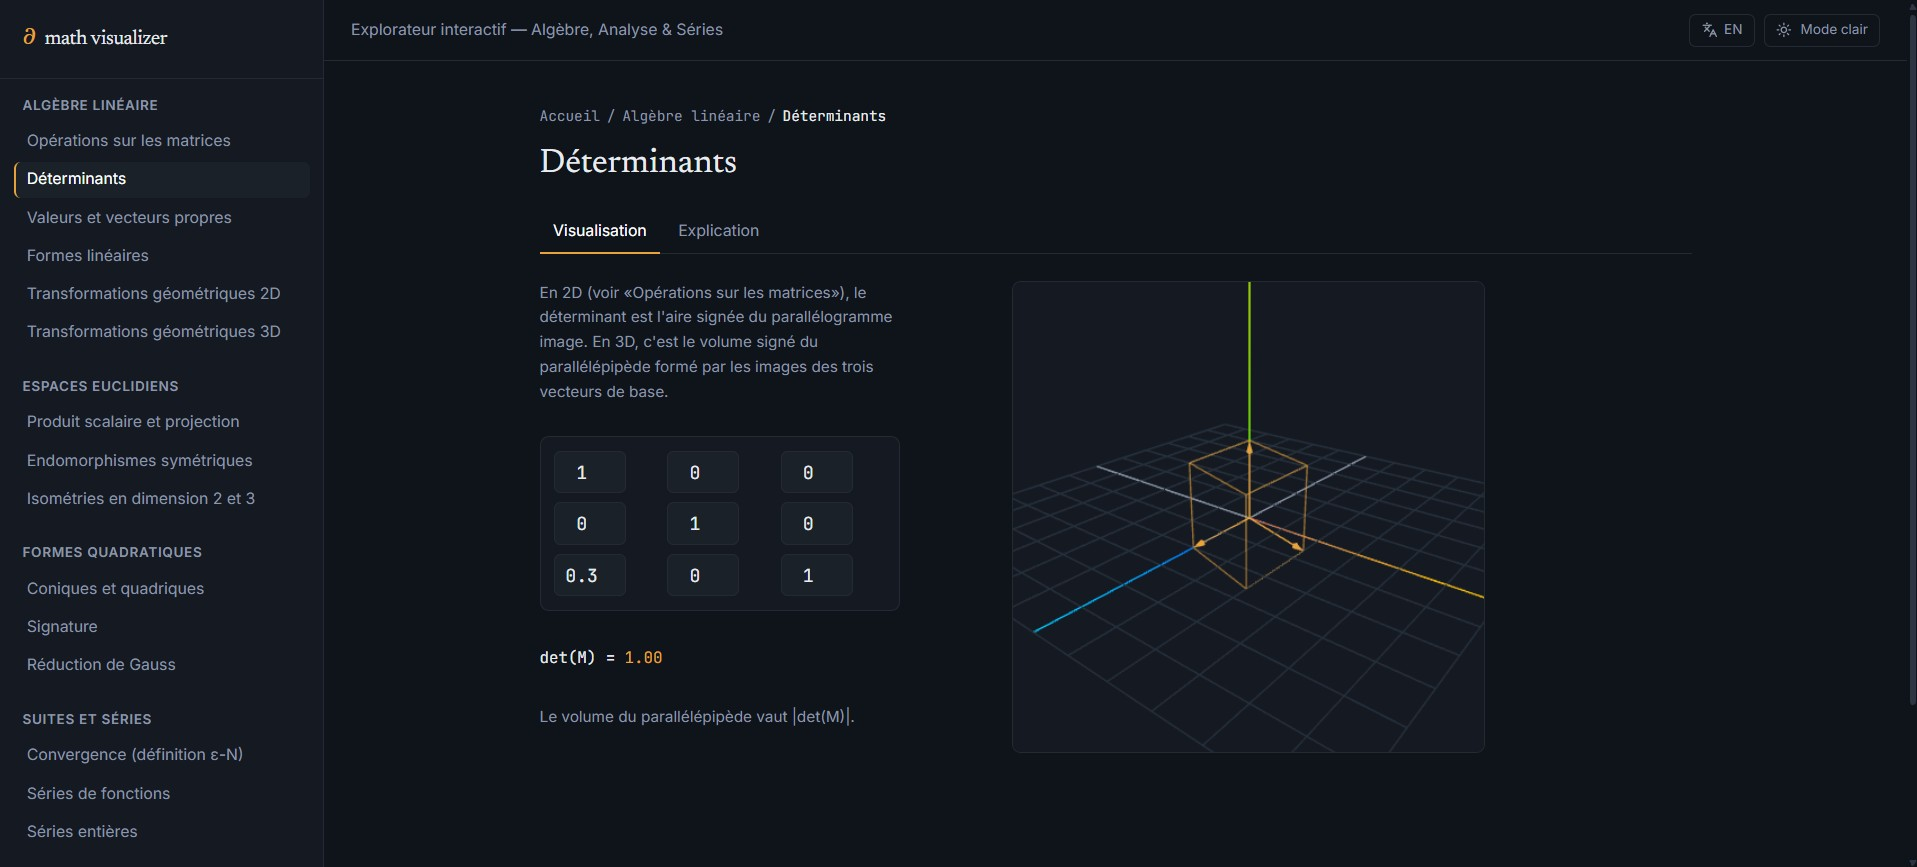
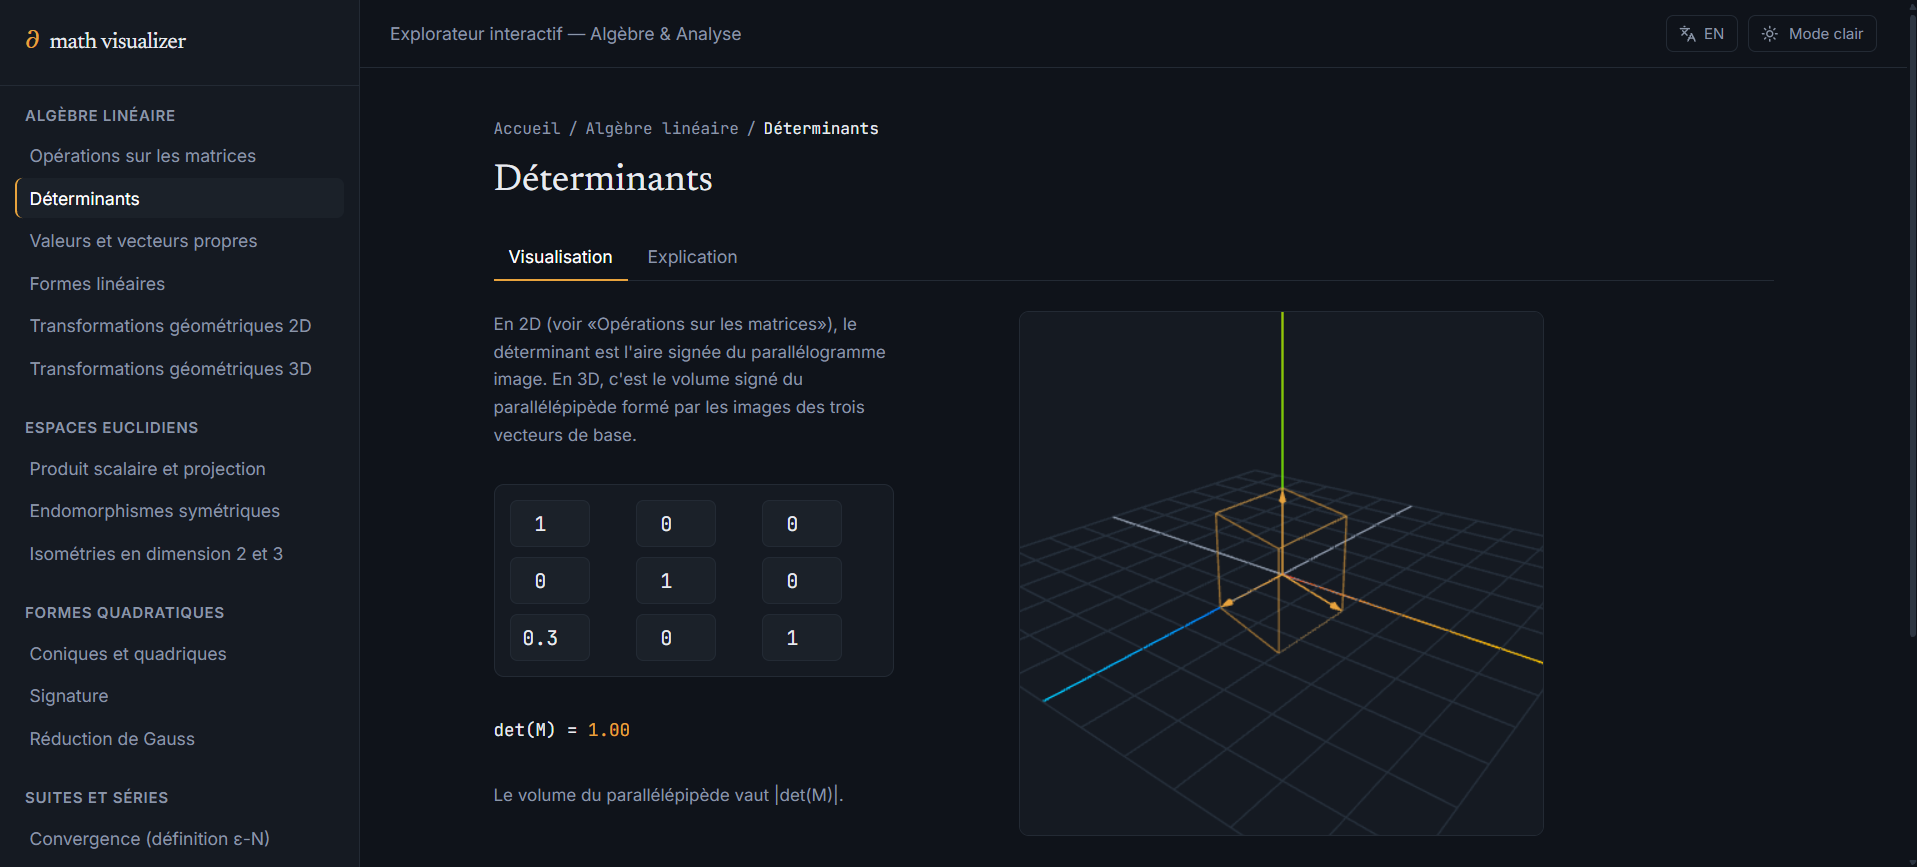
Add tests, change screenshot images

diff --git a/tests/matrix.test.js b/tests/matrix.test.js
@@ -1,0 +1,30 @@
+import { describe, it, expect } from 'vitest'
+import { det2, applyMatrix, matMul2 } from '../src/lib/matrix'
+
+describe('det2', () => {
+    it('is 1 for the identity matrix', () => {
+        expect(det2([[1, 0], [0, 1]])).toBe(1)
+    })
+    it('computes ad - bc', () => {
+        expect(det2([[2, 0], [0, 3]])).toBe(6)
+    })
+    it('is negative for an orientation-reversing matrix', () => {
+        expect(det2([[0, 1], [1, 0]])).toBe(-1)
+    })
+})
+
+describe('applyMatrix', () => {
+    it('leaves vectors unchanged under the identity', () => {
+        expect(applyMatrix([[1, 0], [0, 1]], 3, 4)).toEqual({ x: 3, y: 4 })
+    })
+    it('scales each axis independently', () => {
+        expect(applyMatrix([[2, 0], [0, 3]], 1, 1)).toEqual({ x: 2, y: 3 })
+    })
+})
+
+describe('matMul2', () => {
+    it('two 90° rotations compose into a 180° rotation', () => {
+        const rot90 = [[0, -1], [1, 0]]
+        expect(matMul2(rot90, rot90)).toEqual([[-1, 0], [0, -1]])
+    })
+})

diff --git a/tests/isometry.test.js b/tests/isometry.test.js
@@ -1,0 +1,25 @@
+import { describe, it, expect } from 'vitest'
+import { classifyIsometry2, classifyIsometry3 } from '../src/lib/isometry'
+
+describe('classifyIsometry2', () => {
+    it('identifies a 90° rotation', () => {
+        const result = classifyIsometry2([[0, -1], [1, 0]])
+        expect(result.type).toBe('rotation')
+        expect(result.angleDeg).toBeCloseTo(90)
+    })
+    it('identifies a reflection', () => {
+        const result = classifyIsometry2([[1, 0], [0, -1]])
+        expect(result.type).toBe('reflection')
+    })
+})
+
+describe('classifyIsometry3', () => {
+    it('identifies central symmetry (-Id)', () => {
+        const result = classifyIsometry3([[-1, 0, 0], [0, -1, 0], [0, 0, -1]])
+        expect(result.subtype).toBe('inversion')
+    })
+    it('identifies a plane reflection', () => {
+        const result = classifyIsometry3([[1, 0, 0], [0, 1, 0], [0, 0, -1]])
+        expect(result.subtype).toBe('reflection')
+    })
+})

diff --git a/tests/quadraticForm.test.js b/tests/quadraticForm.test.js
@@ -1,0 +1,24 @@
+import { describe, it, expect } from 'vitest'
+import { classifySignature } from '../src/lib/quadraticForm'
+
+describe('classifySignature', () => {
+    it('classifies a positive definite form', () => {
+        const result = classifySignature(1, 0, 1)
+        expect(result.positives).toBe(2)
+        expect(result.negatives).toBe(0)
+    })
+    it('classifies a negative definite form', () => {
+        const result = classifySignature(-1, 0, -1)
+        expect(result.positives).toBe(0)
+        expect(result.negatives).toBe(2)
+    })
+    it('classifies an indefinite form', () => {
+        const result = classifySignature(1, 0, -1)
+        expect(result.positives).toBe(1)
+        expect(result.negatives).toBe(1)
+    })
+    it('translates the label when lang is en', () => {
+        const result = classifySignature(1, 0, 1, 'en')
+        expect(result.label).toBe('positive definite')
+    })
+})

diff --git a/src/lib/matrix.js b/src/lib/matrix.js
@@ -1,7 +1,7 @@
 export function det2(m) {
   return m[0][0] * m[1][1] - m[0][1] * m[1][0]
 }
-  
+
 export function applyMatrix(m, x, y) {
   return {
     x: m[0][0] * x + m[0][1] * y,
@@ -10,9 +10,16 @@ export function applyMatrix(m, x, y) {
 }
 
 export function matMul2(A, B) {
-  return [
-    [A[0][0] * B[0][0] + A[0][1] * B[1][0], A[0][0] * B[0][1] + A[0][1] * B[1][1]],
-    [A[1][0] * B[0][0] + A[1][1] * B[1][0], A[1][0] * B[0][1] + A[1][1] * B[1][1]],
+  const result = [
+    [
+      A[0][0] * B[0][0] + A[0][1] * B[1][0],
+      A[0][0] * B[0][1] + A[0][1] * B[1][1]
+    ],
+    [
+      A[1][0] * B[0][0] + A[1][1] * B[1][0],
+      A[1][0] * B[0][1] + A[1][1] * B[1][1]
+    ],
   ]
+  return result.map(row => row.map(value => value === 0 ? 0 : value))
 }
 

diff --git a/tests/customFunction.test.js b/tests/customFunction.test.js
@@ -1,0 +1,20 @@
+import { describe, it, expect } from 'vitest'
+import { compileFunction } from '../src/lib/customFunction'
+
+describe('compileFunction', () => {
+    it('compiles and evaluates a valid expression', () => {
+        const { fn, error } = compileFunction('x^2 + 1', ['x'])
+        expect(error).toBeNull()
+        expect(fn(2)).toBeCloseTo(5)
+    })
+    it('reports an error for malformed input', () => {
+        const { fn, error } = compileFunction('x +', ['x'])
+        expect(fn).toBeNull()
+        expect(error).toBeTruthy()
+    })
+    it('reports an error for an undeclared variable', () => {
+        const { fn, error } = compileFunction('y + 1', ['x'])
+        expect(fn).toBeNull()
+        expect(error).toBeTruthy()
+    })
+})

diff --git a/tests/matrix3.test.js b/tests/matrix3.test.js
@@ -1,0 +1,19 @@
+import { describe, it, expect } from 'vitest'
+import { det3, rotationAxis3 } from '../src/lib/matrix3'
+
+describe('det3', () => {
+    it('is 1 for the identity matrix', () => {
+        expect(det3([[1, 0, 0], [0, 1, 0], [0, 0, 1]])).toBe(1)
+    })
+    it('matches cofactor expansion for a known matrix', () => {
+        expect(det3([[1, 2, 3], [4, 5, 6], [7, 8, 10]])).toBe(-3)
+    })
+})
+
+describe('rotationAxis3', () => {
+    it('builds a standard 90° rotation about the z-axis', () => {
+        const m = rotationAxis3({ x: 0, y: 0, z: 1 }, Math.PI / 2)
+        const expected = [[0, -1, 0], [1, 0, 0], [0, 0, 1]]
+        m.forEach((row, i) => row.forEach((v, j) => expect(v).toBeCloseTo(expected[i][j])))
+    })
+})

diff --git a/tests/eigen.test.js b/tests/eigen.test.js
@@ -1,0 +1,18 @@
+import { describe, it, expect } from 'vitest'
+import { eigen2 } from '../src/lib/eigen'
+
+describe('eigen2', () => {
+    it('finds eigenvalues/eigenvectors of a diagonal matrix', () => {
+        const result = eigen2([[2, 0], [0, 3]])
+        expect(result.real).toBe(true)
+        expect(result.l1).toBeCloseTo(3)
+        expect(result.l2).toBeCloseTo(2)
+        expect(result.v1).toEqual({ x: 0, y: 1 })
+        expect(result.v2).toEqual({ x: 1, y: 0 })
+    })
+
+    it('reports no real eigenvalues for a pure rotation', () => {
+        const result = eigen2([[0, -1], [1, 0]])
+        expect(result.real).toBe(false)
+    })
+})

diff --git a/tests/criticalPoints.test.js b/tests/criticalPoints.test.js
@@ -1,0 +1,13 @@
+import { describe, it, expect } from 'vitest'
+import { classifyCriticalPoint } from '../src/lib/criticalPoints'
+
+describe('classifyCriticalPoint', () => {
+    it('identifies a local minimum for x² + y² at the origin', () => {
+        const result = classifyCriticalPoint((x, y) => x * x + y * y, 0, 0)
+        expect(result.label).toBe('minimum local')
+    })
+    it('identifies a saddle point for x² - y² at the origin', () => {
+        const result = classifyCriticalPoint((x, y) => x * x - y * y, 0, 0)
+        expect(result.label).toBe('point selle')
+    })
+})

diff --git a/tests/projection.test.js b/tests/projection.test.js
@@ -1,0 +1,14 @@
+import { describe, it, expect } from 'vitest'
+import { dot, norm, projectOnto } from '../src/lib/projection'
+
+describe('dot / norm / projectOnto', () => {
+    it('computes the dot product', () => {
+        expect(dot({ x: 1, y: 2 }, { x: 3, y: 4 })).toBe(11)
+    })
+    it('computes the norm', () => {
+        expect(norm({ x: 3, y: 4 })).toBe(5)
+    })
+    it('projects onto an axis-aligned vector', () => {
+        expect(projectOnto({ x: 3, y: 4 }, { x: 1, y: 0 })).toEqual({ x: 3, y: 0 })
+    })
+})

diff --git a/tests/conic.test.js b/tests/conic.test.js
@@ -1,0 +1,14 @@
+import { describe, it, expect } from 'vitest'
+import { classifyConic } from '../src/lib/conic'
+
+describe('classifyConic', () => {
+    it('classifies a circle as an ellipse', () => {
+        expect(classifyConic(1, 0, 1)).toBe('ellipse')
+    })
+    it('classifies delta = 0 as a parabola', () => {
+        expect(classifyConic(1, 0, 0)).toBe('parabole')
+    })
+    it('classifies delta > 0 as a hyperbola', () => {
+        expect(classifyConic(1, 0, -1)).toBe('hyperbole')
+    })
+})

diff --git a/README.md b/README.md
@@ -1,63 +1,61 @@
-# Math Visualizer (July-August 2026)
+# Math Visualizer (Juillet - Septembre 2026)
 
-An interactive visualization platform for undergraduate mathematics — linear algebra, Euclidean spaces, quadratic forms, sequences & series, and multivariable analysis — where every topic gets its own hands-on visualizer instead of a static explanation: drag a vector, edit a matrix, type your own function, and watch the math respond live.
+Plateforme de visualisation interactive pour les licences de math :
+algèbre linéaire, espaces euclidiens, formes quadratiques, suites et séries,
+et analyse à plusieurs variables. Chaque notion a sa propre visualisation
+manipulable plutôt qu'une explication statique.
 
-## Live Demo
+Démo en ligne : https://math-visualizer-orcin.vercel.app/
 
-[Link](https://math-visualizer-orcin.vercel.app/)
+## Documentation
 
-## Screenshots
+- DESIGN : choix d'architecture du projet
+- LICENSE : licence du projet
 
-![Home page](screenshots/home.png)
-![Determinants visualizer](screenshots/determinants.png)
-![Eigenvalues and eigenvectors](screenshots/eigenvalues.png)
+## Aperçu
 
-## Features
+![Accueil](screenshots/home.png)
+![Opérations sur les matrices](screenshots/matrix-ops.png)
+![Transformations 3D](screenshots/transformations-3d.png)
 
-- **18 interactive visualizers** across 5 categories — matrix operations, determinants, eigenvalues, linear forms, 2D/3D transformations, dot product & projection, symmetric endomorphisms, isometries, conics & quadrics, signature, Gauss reduction, ε-N convergence, function series, power series, parametric integrals, multiple integrals, and critical points.
-- **Custom input** — type your own sequence, series, or function instead of only picking from presets (parsed safely with mathjs, not `eval`), with adjustable domains where relevant.
-- **Bilingual** — a French/English toggle covers all site chrome and per-topic content.
-- **Light/dark theme**, entirely driven by CSS custom properties, so new components inherit it automatically without extra work.
-- **2D visuals** in hand-rolled SVG (a coordinate plane with pan/zoom, function plots); **3D visuals** in three.js (rotatable, zoomable scenes — transformations, determinants as volume, surfaces, gradient fields).
+## Stack technique
 
-## Built With
+- React + Vite
+- Tailwind CSS v4 (thème par variables CSS, sans fichier de config séparé)
+- React Router
+- three.js (scènes 3D)
+- KaTeX (rendu des formules)
+- mathjs (analyse sûre des fonctions saisies par l'utilisateur)
+- Vitest (tests)
+- GitHub Actions (lint, test, build)
+- Déployé sur Vercel
 
-- [React](https://react.dev/) — UI library, function components + hooks
-- [Vite](https://vitejs.dev/) — build tool / dev server
-- [React Router](https://reactrouter.com/) — client-side routing between topic pages
-- [Tailwind CSS v4](https://tailwindcss.com/) — utility styling with token-based theming (`@theme`, no separate config file)
-- [three.js](https://threejs.org/) — 3D scenes (transformations, surfaces, isosurfaces)
-- [KaTeX](https://katex.org/) — math formula rendering
-- [mathjs](https://mathjs.org/) — safe expression parsing for custom user input
-- [lucide-react](https://lucide.dev/) — icons
+## Lancer le projet en local
 
-## Running Locally
+Prérequis : Node 20+.
 
 ```bash
-git clone https://github.com/bianca574/math-visualizer
-cd math-visualizer
 npm install
 npm run dev
 ```
 
-Then open the local URL shown in your terminal (usually `http://localhost:5173`).
+Aucune variable d'environnement n'est nécessaire — l'application est
+entièrement côté client, sans backend.
 
-## Project Structure
+## Tests
 
-```
-src/
-├── components/  # shared UI: CoordinatePlane, FunctionPlot, Scene3D, Sidebar, Layout, Slider...
-├── context/     # LanguageContext (FR/EN)
-├── data/        # topics.js — single source of truth for the sidebar and home page
-├── lib/         # pure math logic: matrices, eigenvalues, quadratic forms, isometries, custom function parsing, UI strings
-├── pages/       # Home, TopicPage (routing shell)
-├── topics/      # one component per visualizer, registered in registry.js
+```bash
+npm run test
 ```
 
-## What I Learned
+## Build
 
-This project is built on what I picked up from my first one — components, hooks, routing — and pushed further into things I hadn't done before: designing a token-based theming system from scratch (CSS custom properties driving both Tailwind and raw SVG/three.js colors at once), building reusable rendering engines (a coordinate-plane component and a three.js scene wrapper that every visualizer reuses instead of duplicating setup code), and safely evaluating arbitrary user-typed math expressions with a parser instead of `eval`. Debugging cross-file consistency issues — a placeholder left in by mistake, a key mismatch between files — was also a real lesson in how far a single typo can cascade in a multi-file React app.
+```bash
+npm run build
+```
 
-## License
+## Lint
 
-All rights reserved.
+```bash
+npm run lint
+```
